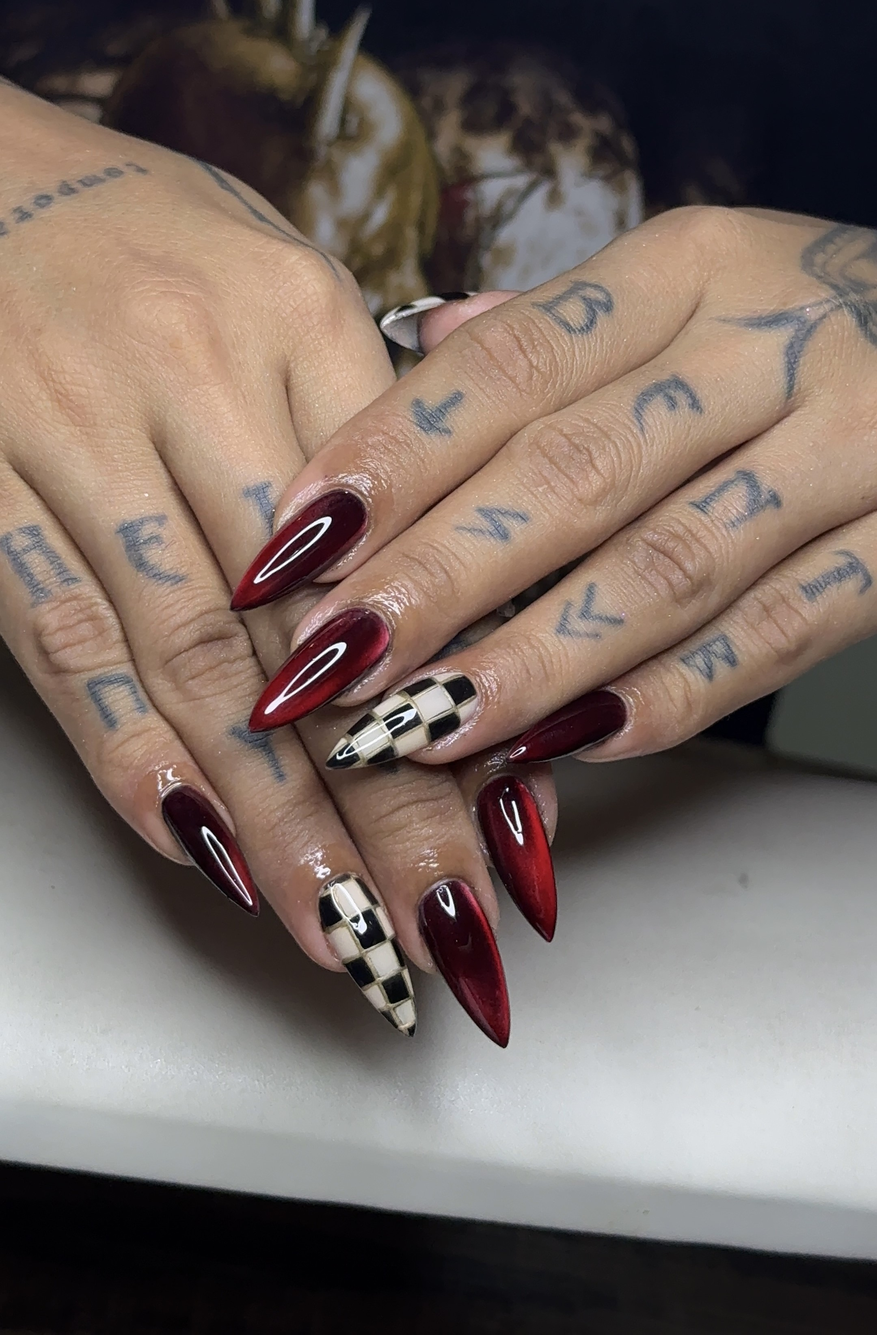
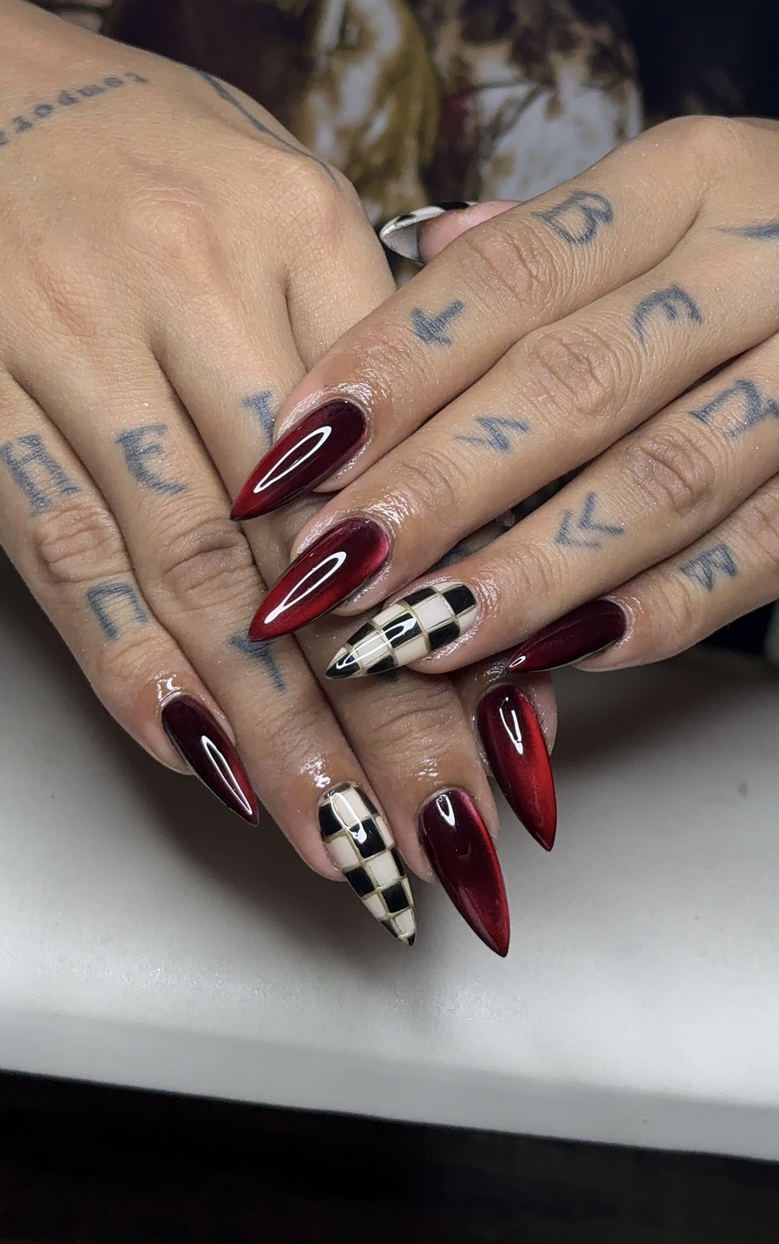
ss

diff --git a/index.html b/index.html
@@ -663,7 +663,7 @@
           class="portfolio-panel group relative overflow-hidden rounded-[1.5rem] sm:rounded-[1.25rem] cursor-pointer gsap-reveal"
           onclick="location.href='gallery.html?filter=classic'">
           <!-- Image -->
-          <img src="images/classic_17.jpg" alt="Classic nail art"
+          <img src="images/classic_09.png" alt="Classic nail art"
             class="absolute inset-0 w-full h-full object-cover transition-transform duration-[1.8s] ease-[cubic-bezier(0.16,1,0.3,1)] group-hover:scale-110"
             loading="lazy" />
           <!-- Base dark gradient -->
@@ -724,7 +724,7 @@
         <div
           class="portfolio-panel group relative overflow-hidden rounded-[1.5rem] sm:rounded-[1.25rem] cursor-pointer gsap-reveal"
           onclick="location.href='gallery.html?filter=maximalist'">
-          <img src="images/maximalist_08.png" alt="Maximalist nail art"
+          <img src="images/maximalist_19.jpg" alt="Maximalist nail art"
             class="absolute inset-0 w-full h-full object-cover transition-transform duration-[1.8s] ease-[cubic-bezier(0.16,1,0.3,1)] group-hover:scale-110"
             loading="lazy" />
           <div class="absolute inset-0 bg-gradient-to-t from-[#0d0804]/90 via-[#0d0804]/20 to-transparent"></div>
